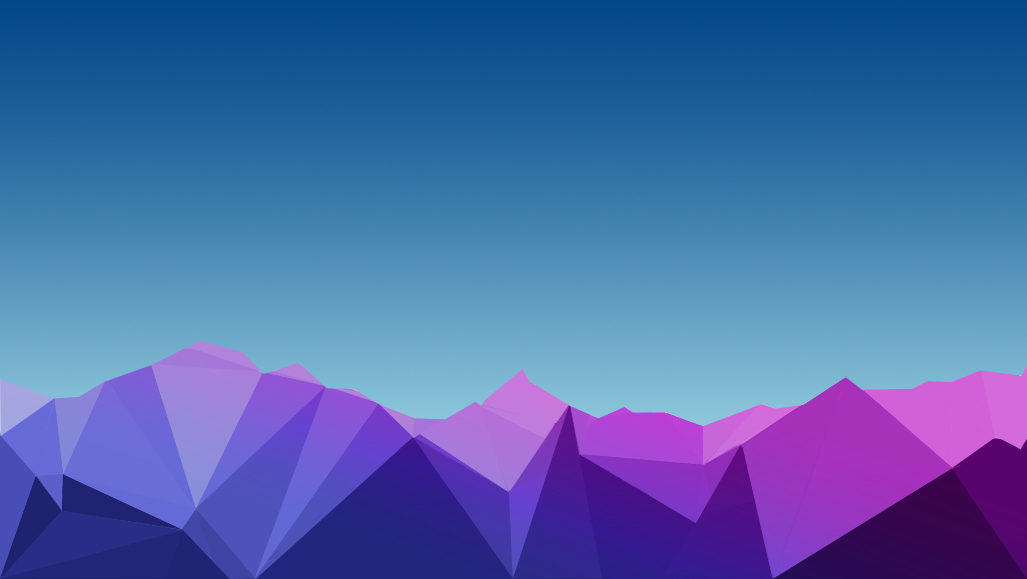
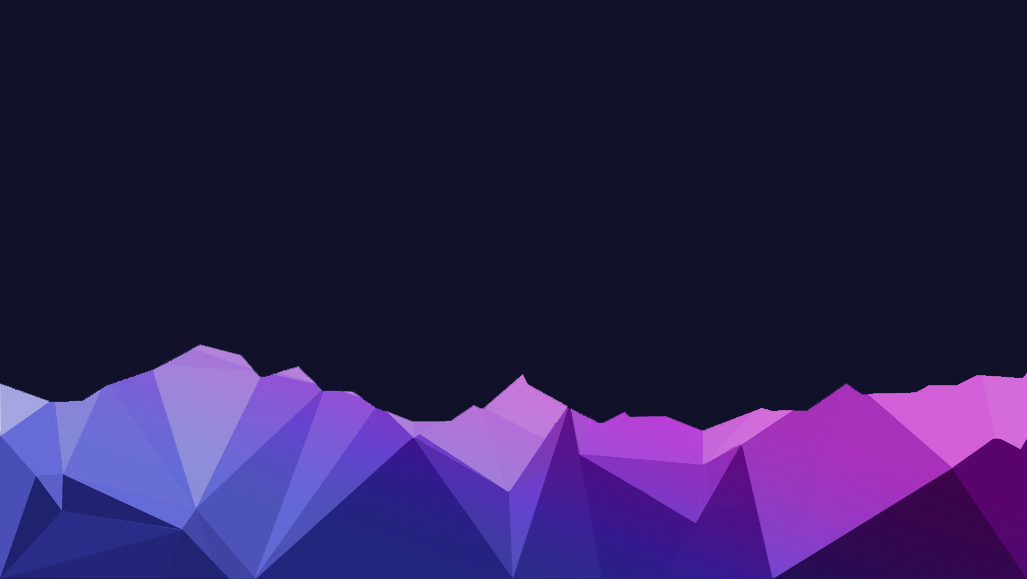
Update projects and nightbg

diff --git a/projects.html b/projects.html
@@ -202,13 +202,13 @@
 				</div>
 				<div class="divider"></div>
 			</div>
-			<div class="filterDiv ios blockchain">
+			<div class="filterDiv ios">
 				<div class="projectHeader">
-					<img id="portfolioIcon" class="projectIcon" src="assets/Projects/Icons/logo_etherscan.jpg" alt="Icon Image">
+					<img id="portfolioIcon" class="projectIcon" src="assets/Projects/Icons/logo_16personalities.jpg" alt="Icon Image">
 					<div class="projectColumn">
-						<h2>Etherscan iOS Client</h2>
+						<h2>16 Personalities</h2>
 						<div class="projectSubRow">
-							<h3>An iOS wrapper client to easily access the REST API provided by Etherscan</h3>
+							<h3>Personality test based on the Meyer Briggs test</h3>
 							<button onclick="location.href='https://github.com/jsdu/EtherscanClient'" type="button" class="projectViewButton">VIEW</button>
 						</div>
 						<div class="divider"></div>
@@ -232,13 +232,13 @@
 				</div>
 				<div class="divider"></div>
 			</div>
-			<div class="filterDiv ios">
+			<div class="filterDiv ios blockchain">
 				<div class="projectHeader">
-					<img id="portfolioIcon" class="projectIcon" src="assets/Projects/Icons/logo_16personalities.jpg" alt="Icon Image">
+					<img id="portfolioIcon" class="projectIcon" src="assets/Projects/Icons/logo_etherscan.jpg" alt="Icon Image">
 					<div class="projectColumn">
-						<h2>16 Personalities</h2>
+						<h2>Etherscan iOS Client</h2>
 						<div class="projectSubRow">
-							<h3>Personality test based on the Meyer Briggs test</h3>
+							<h3>An iOS wrapper client to easily access the REST API provided by Etherscan</h3>
 							<button onclick="location.href='https://github.com/jsdu/EtherscanClient'" type="button" class="projectViewButton">VIEW</button>
 						</div>
 						<div class="divider"></div>
@@ -319,11 +319,11 @@
 						 in reprehenderit in voluptate velit esse cillum dolore eu fugiat nulla pariatur. Excepteur sint occaecat cupidatat non proident, 
 						 sunt in culpa qui officia deserunt mollit anim id est laborum.
 					</h3>
-					<img id="portfolioIcon" class="kb-bg" src="assets/Projects/Screenshots/Connexion.png" alt="StakeAway Image">
+					<img id="portfolioIcon" class="kb-bg" src="assets/Projects/Screenshots/Connexion.png" alt="Connexion Image">
 				</div>
 				<div class="divider"></div>
 			</div>
-			<div class="filterDiv ios blockchain">
+			<div class="filterDiv ios blockchain marginBottom">
 				<div class="projectHeader">
 					<img id="portfolioIcon" class="projectIcon" src="assets/Projects/Icons/logo_eth_gas_station.jpg" alt="Icon Image">
 					<div class="projectColumn">
@@ -336,6 +336,7 @@
 					</div>
 				</div>
 				<div class="projectBodyLeft">
+					<img id="portfolioIcon" class="kb-bg" src="assets/Projects/Screenshots/EthGasStation.jpg" alt="Ethereum Gas Price Image">
 					<h3>
 						Lorem ipsum dolor sit amet, consectetur adipiscing elit, sed do eiusmod tempor incididunt ut labore et dolore magna aliqua. 
 						Ut enim ad minim veniam, quis nostrud exercitation ullamco laboris nisi ut aliquip ex ea commodo consequat. Duis aute irure 

diff --git a/css/project.css b/css/project.css
@@ -201,3 +201,7 @@
     width: 750px;
     object-fit: fill;
 }
+
+.marginBottom {
+    margin-bottom: 100px;
+}
